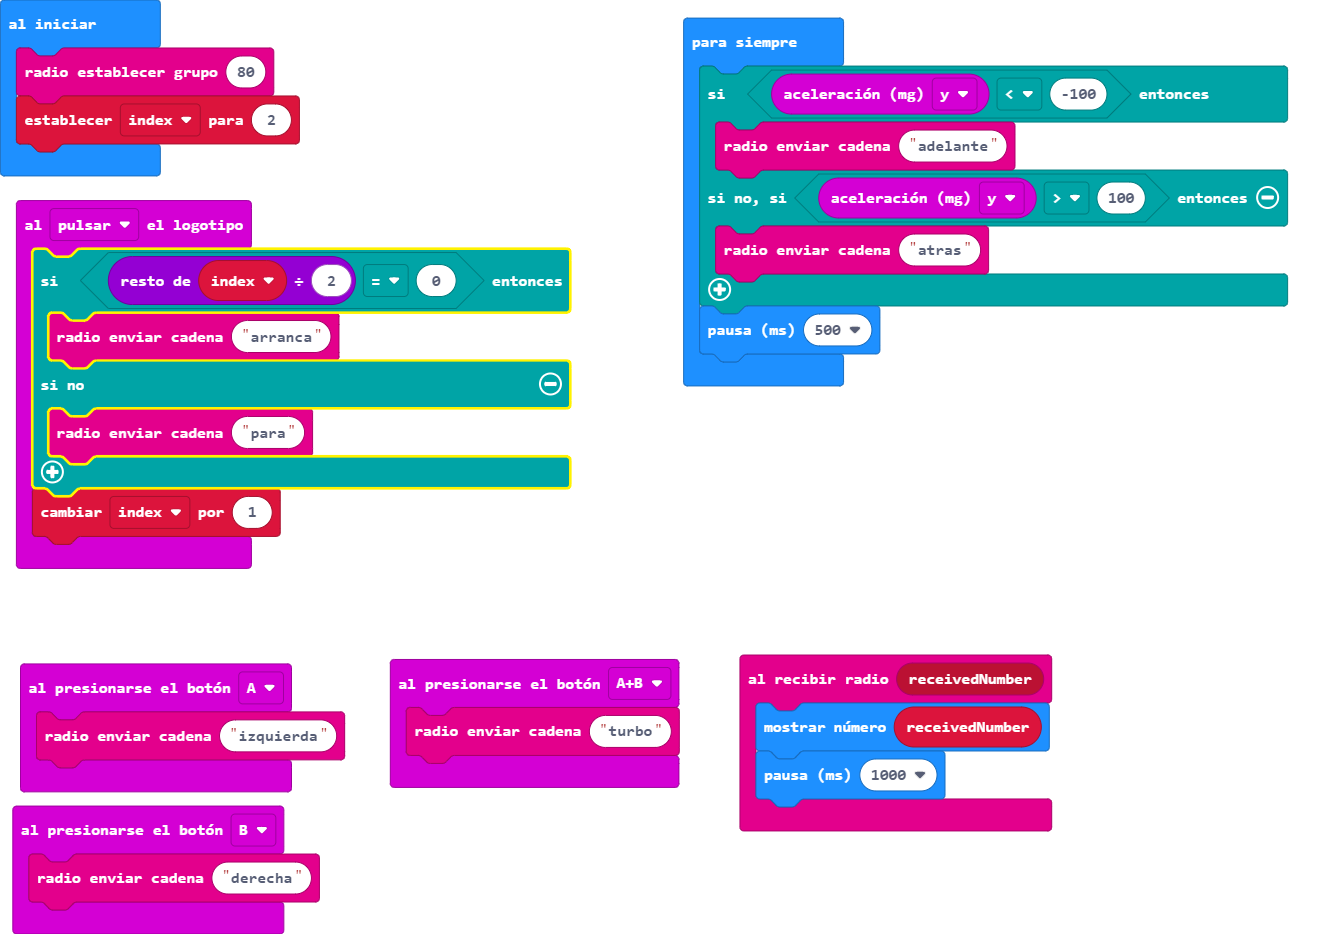
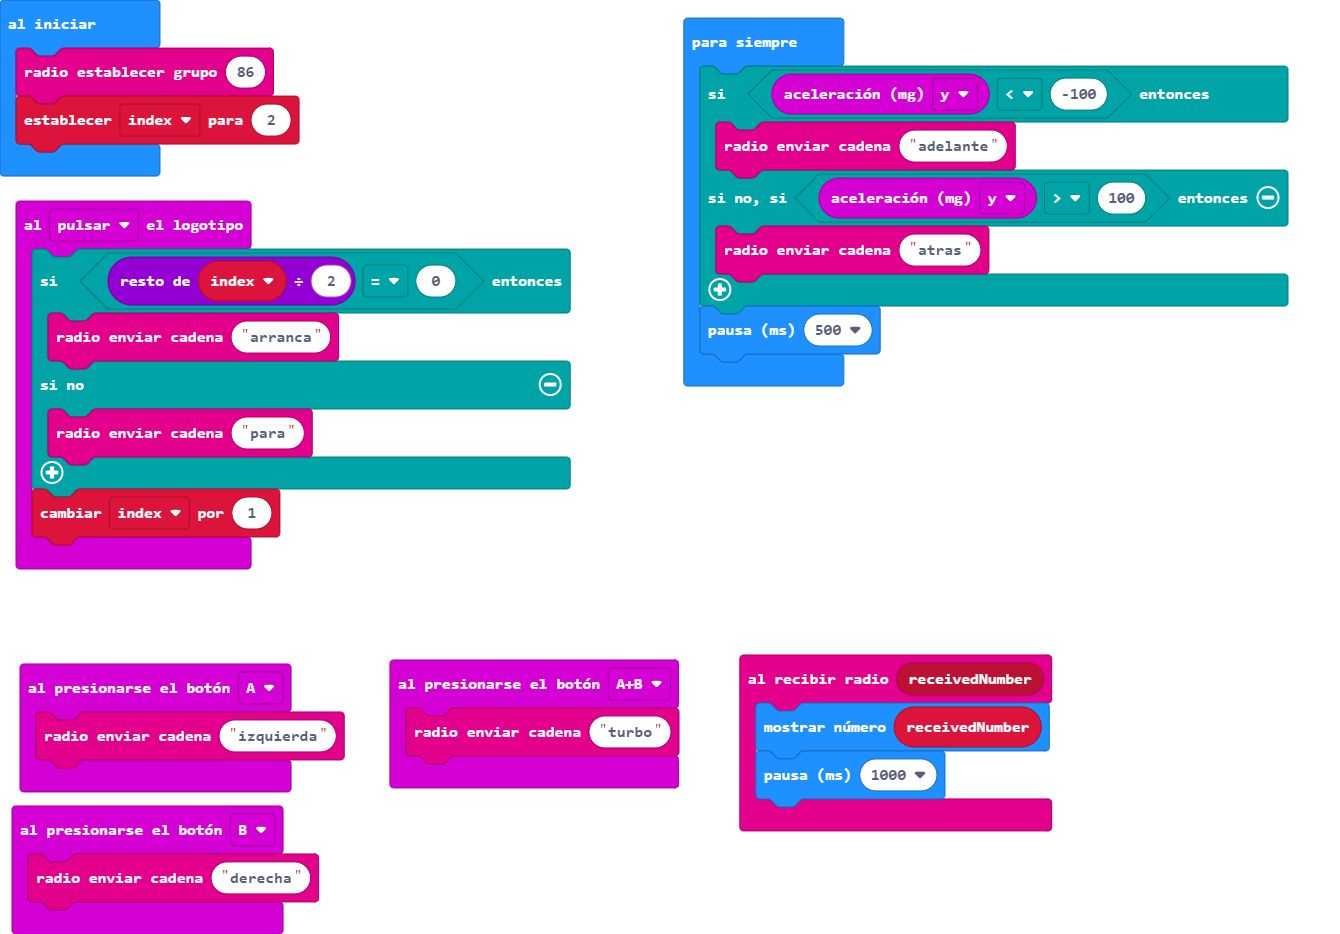
Todo ok tras primera sesión feria

diff --git a/main.ts b/main.ts
@@ -20,7 +20,7 @@ input.onButtonPressed(Button.B, function () {
     radio.sendString("derecha")
 })
 let index = 0
-radio.setGroup(80)
+radio.setGroup(86)
 index = 2
 basic.forever(function () {
     if (input.acceleration(Dimension.Y) < -100) {
